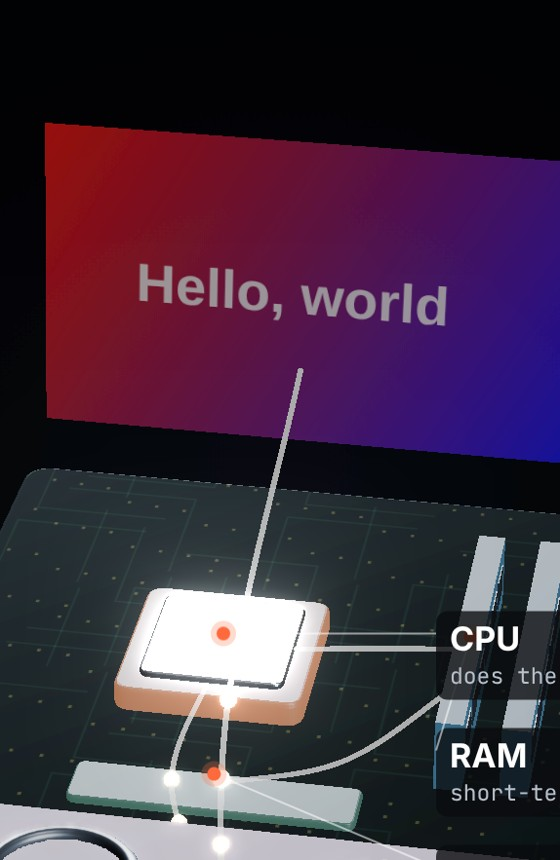
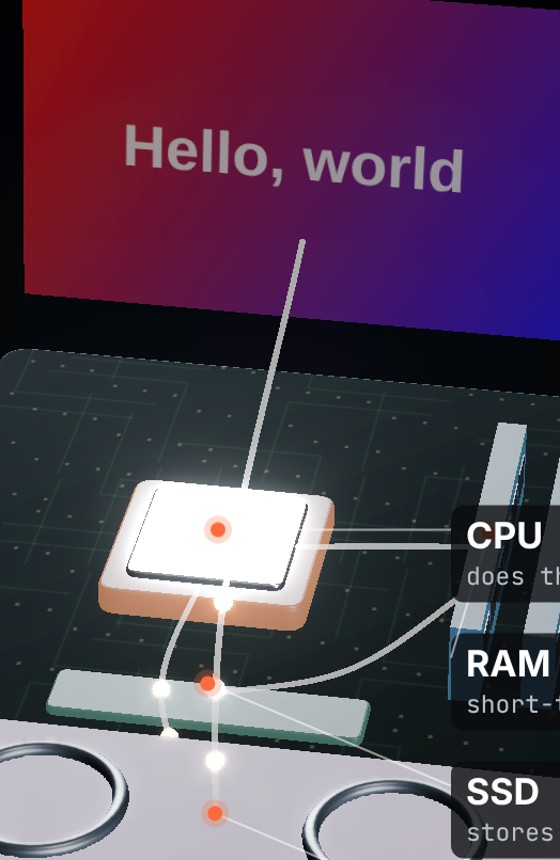
visual3: director fixes (title scrim, clean thumbs, smaller drone, labels inside margins)
Claude-Session: https://claude.ai/code/session_011mgQaNYem7nUNEEz5pFuwc

diff --git a/hf/videos/visual3/scenes.js b/hf/videos/visual3/scenes.js
@@ -88,9 +88,9 @@ function bgGrad(sc,c1,c2){ const t=canvasTex(512,1024,(g,w,h)=>{ const gr=g.crea
     for(let i=0;i<NA;i++){ const c=corners[i%4]; const s=((i*0.618)%1); const u=((lt*1.8+s)%1); const r=0.28*Math.sqrt(((i*0.381)%1)); const a=i*2.4;
       const x=c[0]*0.78+Math.cos(a)*r, z=c[1]*0.78+Math.sin(a)*r, y=0.0-u*0.9*(1+((i%4>1)?tilt*0.6:0));
       ap.set([x,y,z,x,y-0.12,z],i*6); } ag.attributes.position.needsUpdate=true;
-    D.rotation.set(tilt*0.32,-0.6+0.4*easeIO(cl(lt/3.2)),0); D.position.set(0,0.15+0.06*Math.sin(lt*2)+0.3*spin,-tilt*0.5); D.scale.setScalar(0.72);
+    D.rotation.set(tilt*0.32,-0.6+0.4*easeIO(cl(lt/3.2)),0); D.position.set(0,0.15+0.06*Math.sin(lt*2)+0.3*spin,-tilt*0.5); D.scale.setScalar(0.6);
     cam.position.set(0,1.4,6.4-0.6*ease(lt/3.2)); cam.lookAt(0,0.2,0); P.c.render();
-    layoutLabels([['l1_0',motors[0]],['l1_1',batG],['l1_2',chipG]].map(([id,o],i)=>[document.getElementById(id),o,cl((lt-0.9-i*0.2)/0.2)]),cam,720,130);
+    layoutLabels([['l1_0',motors[0]],['l1_1',batG],['l1_2',chipG]].map(([id,o],i)=>[document.getElementById(id),o,cl((lt-0.9-i*0.2)/0.2)]),cam,700,130);
     caption(1,lt); };
 })();
 
@@ -125,6 +125,6 @@ function bgGrad(sc,c1,c2){ const t=canvasTex(512,1024,(g,w,h)=>{ const gr=g.crea
     const lift=easeIO(cl((lt-1.9)/0.8)); chipG.visible=lt>1.85; chipG.position.set(0.2,0.05+lift*0.75,0.25); chipG.scale.setScalar(0.3+lift*0.75); chipG.rotation.set(lift*0.5,lt*0.6,0); die.material.emissiveIntensity=lift*1.6;
     W.position.y=-0.3-lift*0.3; W.scale.setScalar(0.48);
     cam.position.set(0,2.9,5.4-0.5*ease(lt/3.2)); cam.lookAt(0,0.25,0); P.c.render();
-    layoutLabels([['l2_0',wafer],['l2_1',uvA],['l2_2',chipG]].map(([id,o],i)=>[document.getElementById(id),o,cl((lt-[0.4,0.6,2.2][i])/0.2)*(i==1?bOn:1)]),cam,720,130);
+    layoutLabels([['l2_0',wafer],['l2_1',uvA],['l2_2',chipG]].map(([id,o],i)=>[document.getElementById(id),o,cl((lt-[0.4,0.6,2.2][i])/0.2)*(i==1?bOn:1)]),cam,680,130);
     caption(2,lt); };
 })();

diff --git a/hf/videos/visual3/build.py b/hf/videos/visual3/build.py
@@ -171,6 +171,10 @@ html,body,#root{background:#121212!important}
 .th img{width:100%;height:100%;object-fit:cover}
 """
 
+CSS += r"""
+.ttl{padding:22px 0 26px;background:linear-gradient(180deg,rgba(0,0,0,0),rgba(0,0,0,.72) 25%,rgba(0,0,0,.72) 75%,rgba(0,0,0,0))}
+"""
+
 JS = r"""
 const TY=__TY__, KP=__KP__, CMD='__CMD__', END=__END__;
 const it=document.getElementById('it'), sug=document.getElementById('sug'), pop=document.getElementById('pop'), cn=document.getElementById('cn'), ubt=document.getElementById('ubt');
